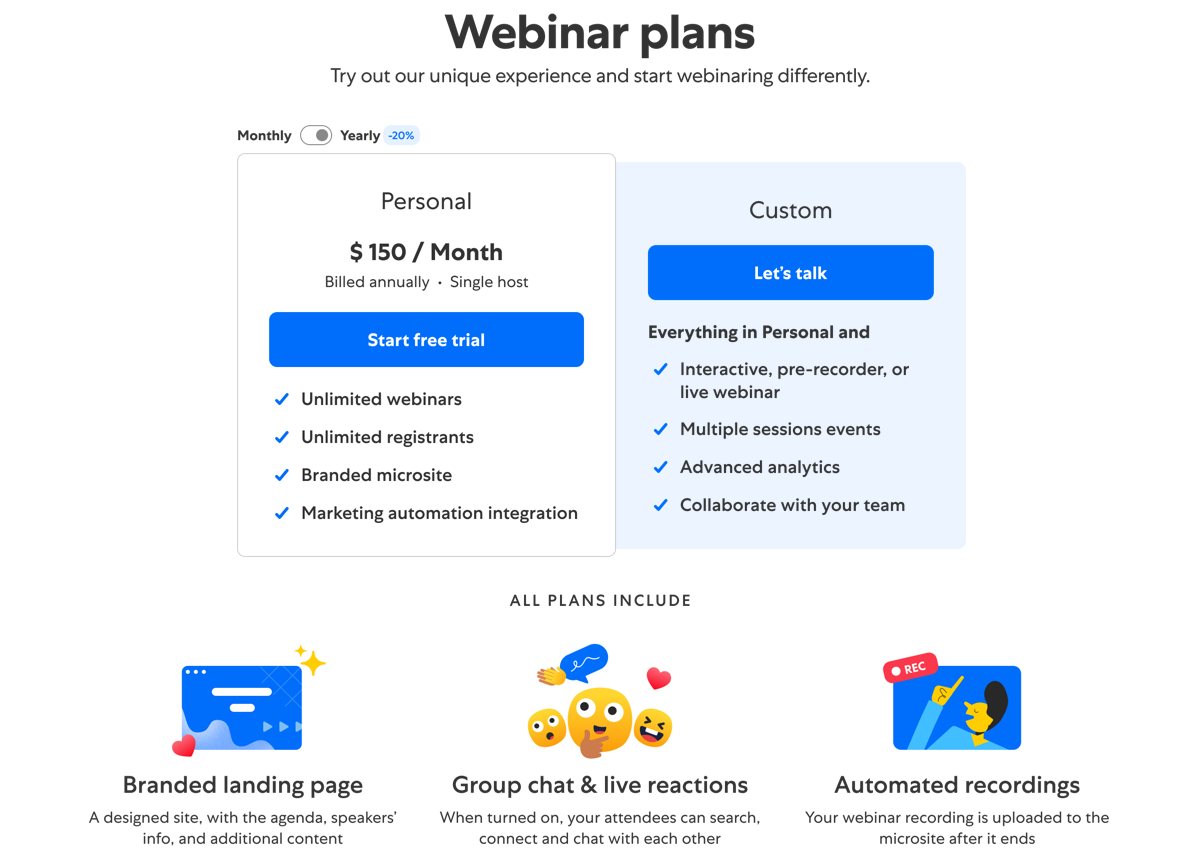
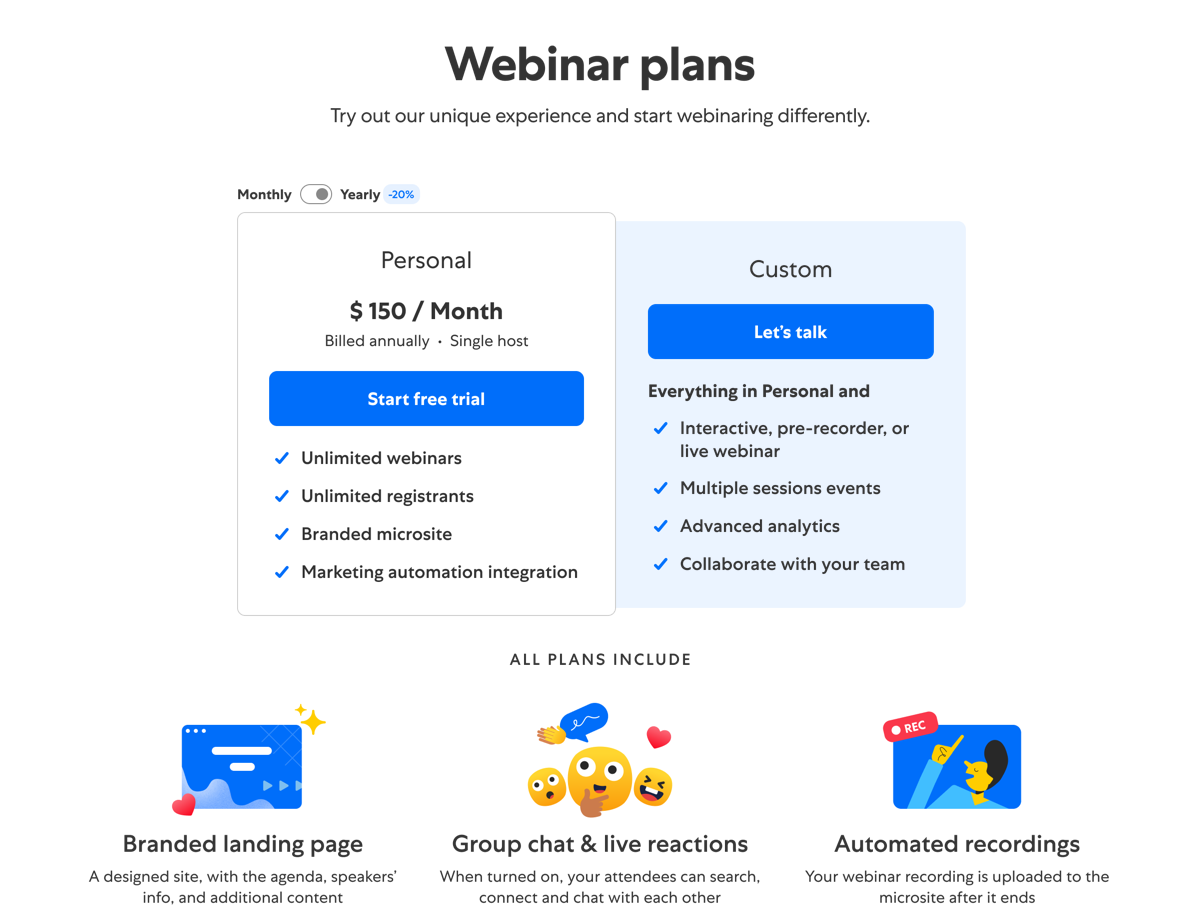
h

diff --git a/index.hyperesources/index_hype_generated_script.js b/index.hyperesources/index_hype_generated_script.js
@@ -4,7 +4,7 @@
 !1)try{for(var c=document.getElementsByTagName("script"),a=0;a<c.length;a++){var d=c[a].src,b=null!=d?d.indexOf("/index_hype_generated_script.js"):-1;if(-1!=b){l=d.substr(0,b);break}}}catch(p){}c=null==navigator.userAgentData&&navigator.userAgent.match(/MSIE (\d+\.\d+)/);c=parseFloat(c&&c[1])||null;d=!0==(null!=window.HYPE_748F||null!=window.HYPE_dtl_748F)||false==!0||null!=c&&10>c;a=!0==d?"HYPE-748.full.min.js":"HYPE-748.thin.min.js";c=!0==d?"F":"T";
 d=d?"":"";if(false==!1&&(a=k("HYPE_748"+c,"HYPE_dtl_748"+c,a,d),false==!0&&(a=a||k("HYPE_w_748","HYPE_wdtl_748","HYPE-748.waypoints.min.js","")),false==!0&&(a=a||k("Matter","HYPE_pdtl_748","HYPE-748.physics.min.js","")),a))return;d=window.HYPE.documents;if(null!=d[f]){b=1;a=f;do f=""+a+"-"+b++;while(null!=d[f]);for(var e=
 document.getElementsByTagName("div"),b=!1,a=0;a<e.length;a++)if(e[a].id==g&&null==e[a].getAttribute("HYP_dn")){var b=1,h=g;do g=""+h+"-"+b++;while(null!=document.getElementById(g));e[a].id=g;b=!0;break}if(!1==b)return}b=[];b=[];e={};h={};for(a=0;a<b.length;a++)try{h[b[a].identifier]=b[a].name,e[b[a].name]=eval("(function(){return "+b[a].source+"})();")}catch(n){window.console&&window.console.log(n),e[b[a].name]=function(){}}c=new window["HYPE_748"+c](f,g,{"-2":{n:"blank.gif"},"18":{p:1,n:"plans.png",g:"265",t:"@1x"},"10":{p:1,n:"kaltura_logo.png",g:"237",t:"@1x"},"19":{p:1,n:"content.png",g:"282",o:true,t:"@1x"},"11":{p:1,n:"contact_us_btn.png",g:"239",t:"@1x"},"0":{n:"webcam_2.mp4",g:"50",t:"video/mp4"},"12":{p:1,n:"pricing_plans.png",g:"242",t:"@1x"},"1":{n:"webcam_1.mp4",g:"52",t:"video/mp4"},"20":{p:1,n:"content_2x.png",g:"282",o:true,t:"@2x"},"2":{p:1,n:"cursor.png",g:"64",t:"@1x"},"13":{p:1,n:"features.png",g:"246",t:"@1x"},"3":{p:1,n:"poll.png",g:"32",t:"@1x"},"21":{p:1,n:"plans_content.png",g:"292",o:true,t:"@1x"},"14":{p:1,n:"money_back.png",g:"248",t:"@1x"},"4":{p:1,n:"room_toolbar.png",g:"48",t:"@1x"},"5":{p:1,n:"speaker_modal.png",g:"62",t:"@1x"},"15":{p:1,n:"background_shape.png",g:"244",t:"@1x"},"22":{p:1,n:"plans_content_2x.png",g:"292",o:true,t:"@2x"},"6":{p:1,n:"landing_page.png",g:"59",t:"@1x"},"16":{p:1,n:"money_back_2.png",g:"267",t:"@1x"},"7":{p:1,n:"ep_overview.png",g:"137",t:"@1x"},"-1":{n:"PIE.htc"},"8":{p:1,n:"main_title.png",g:"233",t:"@1x"},"17":{p:1,n:"logos.png",g:"269",t:"@1x"},"9":{p:1,n:"main_menu.png",g:"235",t:"@1x"}},
-l,["<link href='https://fonts.googleapis.com/css?family=Lato:700&subset=latin' rel='stylesheet' type='text/css'>","<link href='https://fonts.googleapis.com/css?family=Lato&subset=latin' rel='stylesheet' type='text/css'>"],e,[{n:"Pricing page",o:"284",X:[0]},{n:"Pricing page",o:"271",X:[1]},{n:"Pricing page",o:"253",X:[2]},{n:"Pricing Page",o:"230",X:[3]}],[{o:"291",p:"600px",cA:false,a:100,Z:1400,Y:1280,c:"#FFF",L:[],bY:1,d:1280,U:{},T:{kTimelineDefaultIdentifier:{q:false,z:0,i:"kTimelineDefaultIdentifier",n:"Main Timeline",a:[],f:30,b:[]}},bZ:180,O:["296","298","297","299","300","301","302"],n:"Untitled Layout","_":0,v:{"297":{h:"239",p:"no-repeat",x:"visible",a:1137,q:"100% 100%",b:19,j:"absolute",r:"inline",z:3,bS:33,bF:"296",d:40,dB:"img",k:"div",c:119},"300":{h:"292",p:"no-repeat",x:"visible",a:39,dB:"img",q:"100% 100%",j:"absolute",r:"inline",z:11,bS:37,b:78,d:861,k:"div",c:1201},"296":{x:"visible",k:"div",c:1280,d:78,z:5,a:0,bS:39,j:"absolute",b:0},"299":{h:"235",p:"no-repeat",x:"visible",a:386,q:"100% 100%",b:28,j:"absolute",r:"inline",z:1,bS:37,bF:"296",d:21,dB:"img",k:"div",c:508},"302":{h:"269",p:"no-repeat",x:"visible",a:-321,q:"100% 100%",bS:37,j:"absolute",r:"inline",z:13,b:1210,dB:"img",d:476,k:"div",cQ:1,c:1922,cR:1},"298":{h:"237",p:"no-repeat",x:"visible",a:26,dB:"img",q:"100% 100%",j:"absolute",r:"inline",z:2,bF:"296",b:17,d:43.5,aA:{a:[{d:1.1,p:1,g:1,e:"230"}]},k:"div",c:180,aP:"pointer"},"301":{h:"267",p:"no-repeat",x:"visible",a:274,dB:"img",q:"100% 100%",j:"absolute",r:"inline",z:12,bS:37,b:1001,d:147,k:"div",c:731}}},{o:"281",p:"600px",cA:false,a:100,Z:1400,Y:1280,c:"#FFF",L:[],bY:1,d:1280,U:{},T:{kTimelineDefaultIdentifier:{q:false,z:0,i:"kTimelineDefaultIdentifier",n:"Main Timeline",a:[],f:30,b:[]}},bZ:180,O:["303","305","306","304","307"],n:"Untitled Layout","_":1,v:{"305":{h:"237",p:"no-repeat",x:"visible",a:26,dB:"img",q:"100% 100%",j:"absolute",r:"inline",z:2,bF:"303",b:17,d:43.5,aA:{a:[{d:1.1,p:1,g:1,e:"230"}]},k:"div",c:180,aP:"pointer"},"306":{h:"239",p:"no-repeat",x:"visible",a:1137,q:"100% 100%",b:19,j:"absolute",r:"inline",z:3,bS:33,bF:"303",d:40,dB:"img",k:"div",c:119},"303":{x:"visible",k:"div",c:1280,d:78,z:5,a:0,bS:39,j:"absolute",b:0},"307":{h:"282",p:"no-repeat",x:"visible",a:39,dB:"img",q:"100% 100%",j:"absolute",r:"inline",z:10,bS:37,b:78,d:1026,k:"div",c:1201},"304":{h:"235",p:"no-repeat",x:"visible",a:386,q:"100% 100%",b:28,j:"absolute",r:"inline",z:1,bS:37,bF:"303",d:21,dB:"img",k:"div",c:508}}},{o:"264",p:"600px",cA:false,a:100,Z:1400,Y:1280,c:"#FFF",L:[],bY:1,d:1280,U:{},T:{kTimelineDefaultIdentifier:{q:false,z:0,i:"kTimelineDefaultIdentifier",n:"Main Timeline",a:[],f:30,b:[]}},bZ:180,O:["309","311","310","312","315","314","308","313"],n:"Untitled Layout","_":2,v:{"310":{h:"239",p:"no-repeat",x:"visible",a:1137,q:"100% 100%",b:19,j:"absolute",r:"inline",z:3,bS:33,bF:"309",d:40,dB:"img",k:"div",c:119},"313":{h:"269",p:"no-repeat",x:"visible",a:-321,q:"100% 100%",bS:37,j:"absolute",r:"inline",z:9,b:929,dB:"img",d:476,k:"div",cQ:1,c:1922,cR:1},"309":{x:"visible",k:"div",c:1280,d:78,z:5,a:0,bS:39,j:"absolute",b:0},"312":{h:"235",p:"no-repeat",x:"visible",a:386,q:"100% 100%",b:28,j:"absolute",r:"inline",z:1,bS:37,bF:"309",d:21,dB:"img",k:"div",c:508},"315":{h:"233",p:"no-repeat",x:"visible",a:485,dB:"img",q:"100% 100%",j:"absolute",r:"inline",z:3,bS:37,b:110,d:45,k:"div",c:310},"308":{h:"267",p:"no-repeat",x:"visible",a:274,dB:"img",q:"100% 100%",j:"absolute",r:"inline",z:8,bS:37,b:720,d:147,k:"div",c:731},"311":{h:"237",p:"no-repeat",x:"visible",a:26,dB:"img",q:"100% 100%",j:"absolute",r:"inline",z:2,bF:"309",b:17,d:43.5,aA:{a:[{d:1.1,p:1,g:1,e:"230"}]},k:"div",c:180,aP:"pointer"},"314":{h:"265",p:"no-repeat",x:"visible",a:40,q:"100% 100%",bS:37,j:"absolute",r:"inline",z:7,b:199,dB:"img",d:478,k:"div",cQ:1,c:1223,cR:1}}},{o:"232",p:"600px",cA:false,a:100,Z:1500,Y:1280,c:"#FFF",L:[],bY:1,d:1280,U:{},T:{kTimelineDefaultIdentifier:{q:false,z:0,i:"kTimelineDefaultIdentifier",n:"Main Timeline",a:[],f:30,b:[]}},bZ:180,O:["317","319","320","318","321","323","316","322","324"],n:"Untitled Layout","_":3,v:{"317":{x:"visible",k:"div",c:1280,d:78,z:5,a:0,bS:39,j:"absolute",b:0},"320":{h:"239",p:"no-repeat",x:"visible",a:1137,q:"100% 100%",b:19,j:"absolute",r:"inline",z:3,bS:33,bF:"317",d:40,dB:"img",k:"div",c:119},"323":{h:"242",p:"no-repeat",x:"visible",a:245,dB:"img",q:"100% 100%",j:"absolute",r:"inline",z:4,bS:37,b:216,d:440,k:"div",c:790},"316":{h:"244",p:"no-repeat",x:"visible",a:-320,q:"100% 100%",bS:37,j:"absolute",r:"inline",z:1,b:542,dB:"img",d:620,k:"div",cQ:1,c:1922,cR:1},"319":{h:"237",p:"no-repeat",x:"visible",a:26,dB:"img",q:"100% 100%",j:"absolute",r:"inline",z:2,bF:"317",b:17,d:43.5,k:"div",c:180},"322":{h:"246",p:"no-repeat",x:"visible",a:40,dB:"img",q:"100% 100%",j:"absolute",r:"inline",z:2,bS:37,b:720,d:273,k:"div",c:1200},"318":{h:"235",p:"no-repeat",x:"visible",a:386,q:"100% 100%",b:28,j:"absolute",r:"inline",z:1,bS:37,bF:"317",d:21,dB:"img",k:"div",c:508},"321":{h:"233",p:"no-repeat",x:"visible",a:485,dB:"img",q:"100% 100%",j:"absolute",r:"inline",z:3,bS:37,b:110,d:45,k:"div",c:310},"324":{h:"248",p:"no-repeat",x:"visible",a:-321,q:"100% 100%",bS:37,j:"absolute",r:"inline",z:6,b:1057,dB:"img",d:476,k:"div",cQ:1,c:1922,cR:1}}}],{},h,{},
+l,["<link href='https://fonts.googleapis.com/css?family=Lato:700&subset=latin' rel='stylesheet' type='text/css'>","<link href='https://fonts.googleapis.com/css?family=Lato&subset=latin' rel='stylesheet' type='text/css'>"],e,[{n:"Pricing page",o:"284",X:[0]},{n:"Pricing page",o:"271",X:[1]},{n:"Pricing page",o:"253",X:[2]},{n:"Pricing Page",o:"230",X:[3]}],[{o:"291",p:"600px",cA:false,a:100,Z:1600,Y:1280,c:"#FFF",L:[],bY:1,d:1280,U:{},T:{kTimelineDefaultIdentifier:{q:false,z:0,i:"kTimelineDefaultIdentifier",n:"Main Timeline",a:[],f:30,b:[]}},bZ:180,O:["296","298","297","299","300","301","302"],n:"Untitled Layout","_":0,v:{"297":{h:"239",p:"no-repeat",x:"visible",a:1137,q:"100% 100%",b:19,j:"absolute",r:"inline",z:3,bS:33,bF:"296",d:40,dB:"img",k:"div",c:119},"300":{h:"292",p:"no-repeat",x:"visible",a:39,q:"100% 100%",bS:37,j:"absolute",r:"inline",z:11,b:78,dB:"img",d:920,k:"div",cQ:1,c:1201,cR:1},"296":{x:"visible",k:"div",c:1280,d:78,z:5,a:0,bS:39,j:"absolute",b:0},"299":{h:"235",p:"no-repeat",x:"visible",a:386,q:"100% 100%",b:28,j:"absolute",r:"inline",z:1,bS:37,bF:"296",d:21,dB:"img",k:"div",c:508},"302":{h:"269",p:"no-repeat",x:"visible",a:-321,q:"100% 100%",bS:37,j:"absolute",r:"inline",z:13,b:1229,dB:"img",d:476,k:"div",cQ:1,c:1922,cR:1},"298":{h:"237",p:"no-repeat",x:"visible",a:26,dB:"img",q:"100% 100%",j:"absolute",r:"inline",z:2,bF:"296",b:17,d:43.5,aA:{a:[{d:1.1,p:1,g:1,e:"230"}]},k:"div",c:180,aP:"pointer"},"301":{h:"267",p:"no-repeat",x:"visible",a:274,dB:"img",q:"100% 100%",j:"absolute",r:"inline",z:12,bS:37,b:1040,d:147,k:"div",c:731}}},{o:"281",p:"600px",cA:false,a:100,Z:1400,Y:1280,c:"#FFF",L:[],bY:1,d:1280,U:{},T:{kTimelineDefaultIdentifier:{q:false,z:0,i:"kTimelineDefaultIdentifier",n:"Main Timeline",a:[],f:30,b:[]}},bZ:180,O:["303","305","306","304","307"],n:"Untitled Layout","_":1,v:{"305":{h:"237",p:"no-repeat",x:"visible",a:26,dB:"img",q:"100% 100%",j:"absolute",r:"inline",z:2,bF:"303",b:17,d:43.5,aA:{a:[{d:1.1,p:1,g:1,e:"230"}]},k:"div",c:180,aP:"pointer"},"306":{h:"239",p:"no-repeat",x:"visible",a:1137,q:"100% 100%",b:19,j:"absolute",r:"inline",z:3,bS:33,bF:"303",d:40,dB:"img",k:"div",c:119},"303":{x:"visible",k:"div",c:1280,d:78,z:5,a:0,bS:39,j:"absolute",b:0},"307":{h:"282",p:"no-repeat",x:"visible",a:39,dB:"img",q:"100% 100%",j:"absolute",r:"inline",z:10,bS:37,b:78,d:1026,k:"div",c:1201},"304":{h:"235",p:"no-repeat",x:"visible",a:386,q:"100% 100%",b:28,j:"absolute",r:"inline",z:1,bS:37,bF:"303",d:21,dB:"img",k:"div",c:508}}},{o:"264",p:"600px",cA:false,a:100,Z:1400,Y:1280,c:"#FFF",L:[],bY:1,d:1280,U:{},T:{kTimelineDefaultIdentifier:{q:false,z:0,i:"kTimelineDefaultIdentifier",n:"Main Timeline",a:[],f:30,b:[]}},bZ:180,O:["309","311","310","312","315","314","308","313"],n:"Untitled Layout","_":2,v:{"310":{h:"239",p:"no-repeat",x:"visible",a:1137,q:"100% 100%",b:19,j:"absolute",r:"inline",z:3,bS:33,bF:"309",d:40,dB:"img",k:"div",c:119},"313":{h:"269",p:"no-repeat",x:"visible",a:-321,q:"100% 100%",bS:37,j:"absolute",r:"inline",z:9,b:929,dB:"img",d:476,k:"div",cQ:1,c:1922,cR:1},"309":{x:"visible",k:"div",c:1280,d:78,z:5,a:0,bS:39,j:"absolute",b:0},"312":{h:"235",p:"no-repeat",x:"visible",a:386,q:"100% 100%",b:28,j:"absolute",r:"inline",z:1,bS:37,bF:"309",d:21,dB:"img",k:"div",c:508},"315":{h:"233",p:"no-repeat",x:"visible",a:485,dB:"img",q:"100% 100%",j:"absolute",r:"inline",z:3,bS:37,b:110,d:45,k:"div",c:310},"308":{h:"267",p:"no-repeat",x:"visible",a:274,dB:"img",q:"100% 100%",j:"absolute",r:"inline",z:8,bS:37,b:720,d:147,k:"div",c:731},"311":{h:"237",p:"no-repeat",x:"visible",a:26,dB:"img",q:"100% 100%",j:"absolute",r:"inline",z:2,bF:"309",b:17,d:43.5,aA:{a:[{d:1.1,p:1,g:1,e:"230"}]},k:"div",c:180,aP:"pointer"},"314":{h:"265",p:"no-repeat",x:"visible",a:40,q:"100% 100%",bS:37,j:"absolute",r:"inline",z:7,b:199,dB:"img",d:478,k:"div",cQ:1,c:1223,cR:1}}},{o:"232",p:"600px",cA:false,a:100,Z:1500,Y:1280,c:"#FFF",L:[],bY:1,d:1280,U:{},T:{kTimelineDefaultIdentifier:{q:false,z:0,i:"kTimelineDefaultIdentifier",n:"Main Timeline",a:[],f:30,b:[]}},bZ:180,O:["317","319","320","318","321","323","316","322","324"],n:"Untitled Layout","_":3,v:{"317":{x:"visible",k:"div",c:1280,d:78,z:5,a:0,bS:39,j:"absolute",b:0},"320":{h:"239",p:"no-repeat",x:"visible",a:1137,q:"100% 100%",b:19,j:"absolute",r:"inline",z:3,bS:33,bF:"317",d:40,dB:"img",k:"div",c:119},"323":{h:"242",p:"no-repeat",x:"visible",a:245,dB:"img",q:"100% 100%",j:"absolute",r:"inline",z:4,bS:37,b:216,d:440,k:"div",c:790},"316":{h:"244",p:"no-repeat",x:"visible",a:-320,q:"100% 100%",bS:37,j:"absolute",r:"inline",z:1,b:542,dB:"img",d:620,k:"div",cQ:1,c:1922,cR:1},"319":{h:"237",p:"no-repeat",x:"visible",a:26,dB:"img",q:"100% 100%",j:"absolute",r:"inline",z:2,bF:"317",b:17,d:43.5,k:"div",c:180},"322":{h:"246",p:"no-repeat",x:"visible",a:40,dB:"img",q:"100% 100%",j:"absolute",r:"inline",z:2,bS:37,b:720,d:273,k:"div",c:1200},"318":{h:"235",p:"no-repeat",x:"visible",a:386,q:"100% 100%",b:28,j:"absolute",r:"inline",z:1,bS:37,bF:"317",d:21,dB:"img",k:"div",c:508},"321":{h:"233",p:"no-repeat",x:"visible",a:485,dB:"img",q:"100% 100%",j:"absolute",r:"inline",z:3,bS:37,b:110,d:45,k:"div",c:310},"324":{h:"248",p:"no-repeat",x:"visible",a:-321,q:"100% 100%",bS:37,j:"absolute",r:"inline",z:6,b:1057,dB:"img",d:476,k:"div",cQ:1,c:1922,cR:1}}}],{},h,{},
 (function (shouldShow, mainContentContainer) {
 	var loadingPageID = mainContentContainer.id + "_loading";
 	var loadingDiv = document.getElementById(loadingPageID);

diff --git a/index.html b/index.html
@@ -25,8 +25,8 @@
   <body>
 	<!-- copy these lines to your document: -->
 
-	<div id="index_hype_container" class="HYPE_document" style="margin:auto;position:relative;width:100%;height:1400px;overflow:hidden;">
-		<script type="text/javascript" charset="utf-8" src="index.hyperesources/index_hype_generated_script.js?31566"></script>
+	<div id="index_hype_container" class="HYPE_document" style="margin:auto;position:relative;width:100%;height:1600px;overflow:hidden;">
+		<script type="text/javascript" charset="utf-8" src="index.hyperesources/index_hype_generated_script.js?81443"></script>
 	</div>
 
 	<!-- end copy -->
